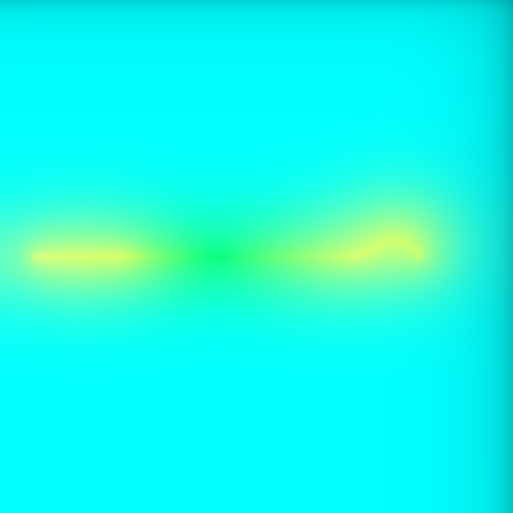
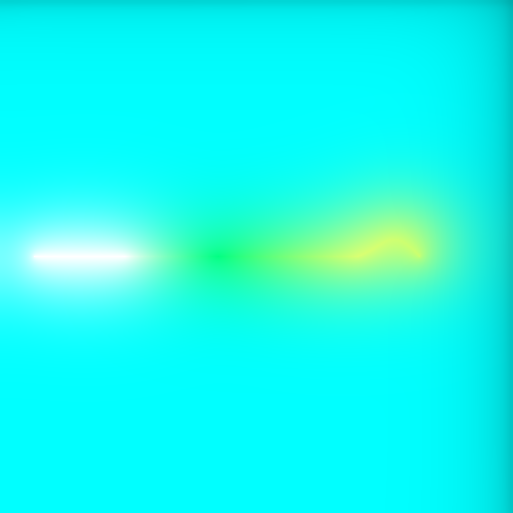
Better editor window

Changed region(s): [[0.0, 0.3743, 0.4055, 0.6238]]

diff --git a/Assets/Editor/TerrainEditorWindow.cs b/Assets/Editor/TerrainEditorWindow.cs
@@ -1,5 +1,6 @@
 using UnityEngine;
 using UnityEditor;
+using UnityEngine.Experimental.TerrainAPI;
 
 public class TerrainEditorWindow : EditorWindow
 {
@@ -27,8 +28,26 @@ public class TerrainEditorWindow : EditorWindow
         SplineTerrain terrain = null;
         if (Selection.activeGameObject && Selection.activeGameObject.GetComponentInParent<SplineTerrain>())
         {
+            GUILayout.Space(10);
             terrain = Selection.activeGameObject.GetComponentInParent<SplineTerrain>();
             GUILayout.Label("Terrain options", EditorStyles.boldLabel);
+
+            TerrainVisualizer visualizer = null;
+            if (Selection.activeGameObject.GetComponentInParent<TerrainVisualizer>())
+            {
+                visualizer = Selection.activeGameObject.GetComponentInParent<TerrainVisualizer>();
+                GUILayout.Space(10);
+                bool renderErosion = EditorGUILayout.Toggle("Render erosion", visualizer.viewMode == TerrainVisualizer.ViewMode.Heightmap);
+                if ((visualizer.viewMode == TerrainVisualizer.ViewMode.Heightmap) != renderErosion)
+                {
+                    visualizer.viewMode = renderErosion ? TerrainVisualizer.ViewMode.Heightmap : TerrainVisualizer.ViewMode.HeightmapNoErosion;
+                    Undo.RecordObject(visualizer, "Toggle viewMode");
+                    EditorUtility.SetDirty(visualizer);
+                    visualizer.fastExport();
+                }
+            }
+            
+            GUILayout.Space(10);
             GUI.backgroundColor = new Color(138f / 255, 242f / 255, 116f / 255);
             if (GUILayout.Button("Render terrain"))
             {
@@ -36,6 +55,7 @@ public class TerrainEditorWindow : EditorWindow
                 terrain.GetComponent<TerrainVisualizer>().fastExport();
             }
             GUI.backgroundColor = before;
+            GUILayout.Space(10);
 
             if (GUILayout.Button("Add Spline"))
             {
@@ -51,7 +71,15 @@ public class TerrainEditorWindow : EditorWindow
         {
             GUILayout.Space(20);
             GUILayout.Label("Spline options", EditorStyles.boldLabel);
+            
+            bool elevationConstraint = EditorGUILayout.Toggle("Elevation constraints", spline.elevationConstraint);
+            spline.elevationConstraint = elevationConstraint;
+            bool noiseConstraint = EditorGUILayout.Toggle("Noise constraints", spline.noiseConstraint);
+            spline.noiseConstraint = noiseConstraint;
+            bool erosionConstraint = EditorGUILayout.Toggle("Erosion constraints", spline.erosionConstraint);
+            spline.erosionConstraint = erosionConstraint;
 
+            GUILayout.Space(10);
             GUI.backgroundColor = before;
             if (GUILayout.Button("Add Curve"))
             {
@@ -88,10 +116,25 @@ public class TerrainEditorWindow : EditorWindow
             float position = EditorGUILayout.Slider("Position", metaPoint.position, 0, spline.CurveCount);
             metaPoint.position = position;
 
-            float noiseAmplitude = EditorGUILayout.Slider("Noise Amplitude", metaPoint.noiseAmplitude, 0, 1);
-            metaPoint.noiseAmplitude = noiseAmplitude;
-            float noiseRoughness = EditorGUILayout.Slider("Noise Roughness", metaPoint.noiseRoughness, 0, 1);
-            metaPoint.noiseRoughness = noiseRoughness;
+            if (spline.noiseConstraint)
+            {
+                GUILayout.Space(5);
+                float noiseAmplitude = EditorGUILayout.Slider("Noise Amplitude", metaPoint.noiseAmplitude, 0, 1);
+                metaPoint.noiseAmplitude = noiseAmplitude;
+                float noiseRoughness = EditorGUILayout.Slider("Noise Roughness", metaPoint.noiseRoughness, 0, 1);
+                metaPoint.noiseRoughness = noiseRoughness;
+            }
+            
+            if (spline.erosionConstraint)
+            {
+                GUILayout.Space(5);
+                float erosionRain = EditorGUILayout.Slider("Erosion Rain", metaPoint.erosionRain, 0, 1);
+                metaPoint.erosionRain = erosionRain;
+                float erosionHardness = EditorGUILayout.Slider("Erosion hardness", metaPoint.erosionHardness, 0, 1);
+                metaPoint.erosionHardness = erosionHardness;
+                float sedimentCapacity = EditorGUILayout.Slider("Erosion hardness", metaPoint.sedimentCapacity, 0, 1);
+                metaPoint.sedimentCapacity = sedimentCapacity;
+            }
 
             Undo.RecordObject(spline, "Update Meta Point");
             EditorUtility.SetDirty(spline);
